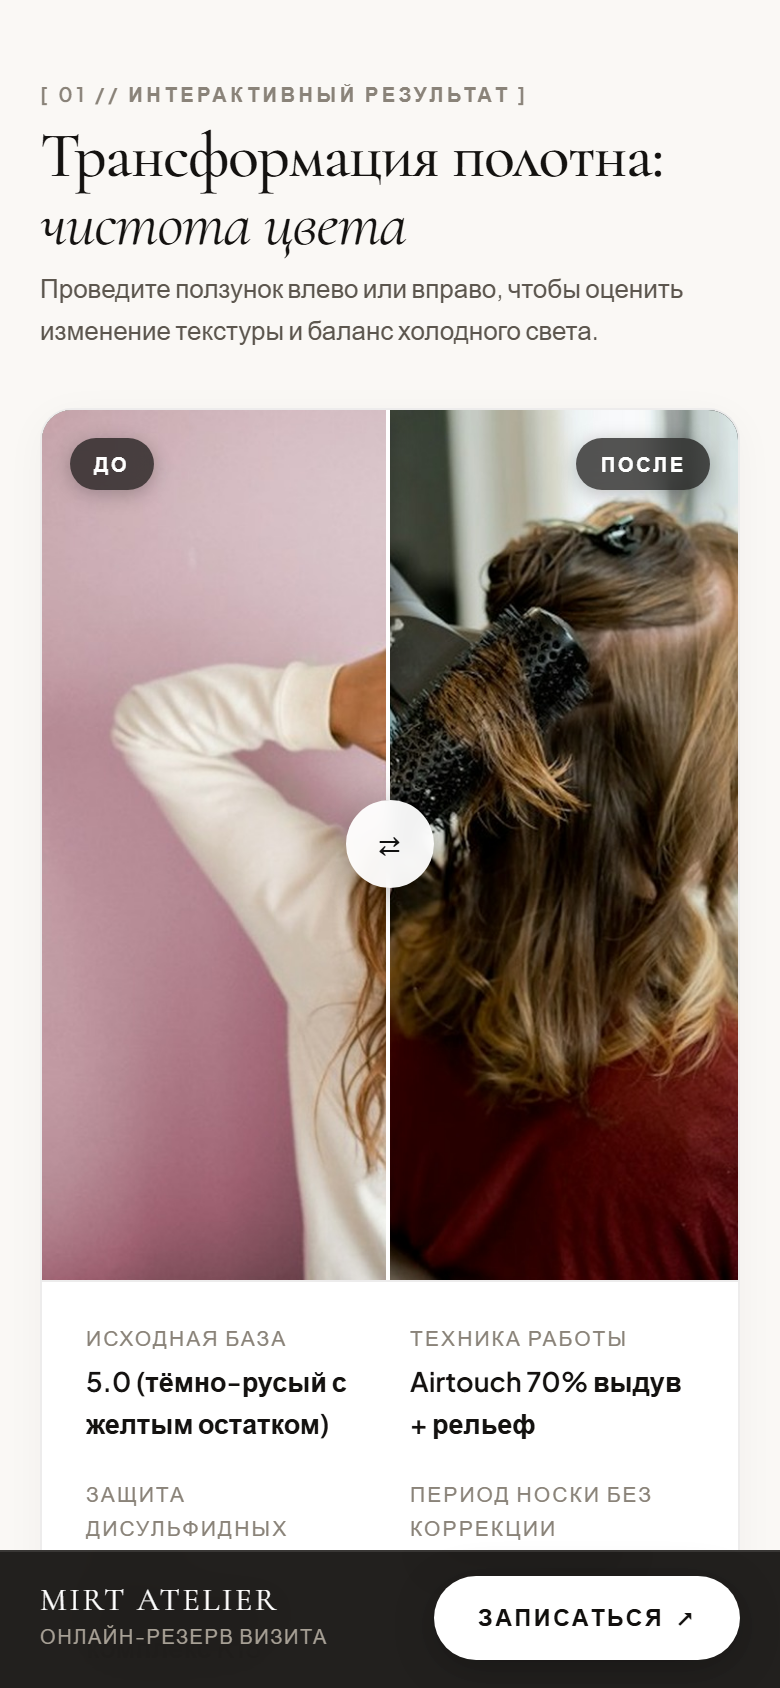
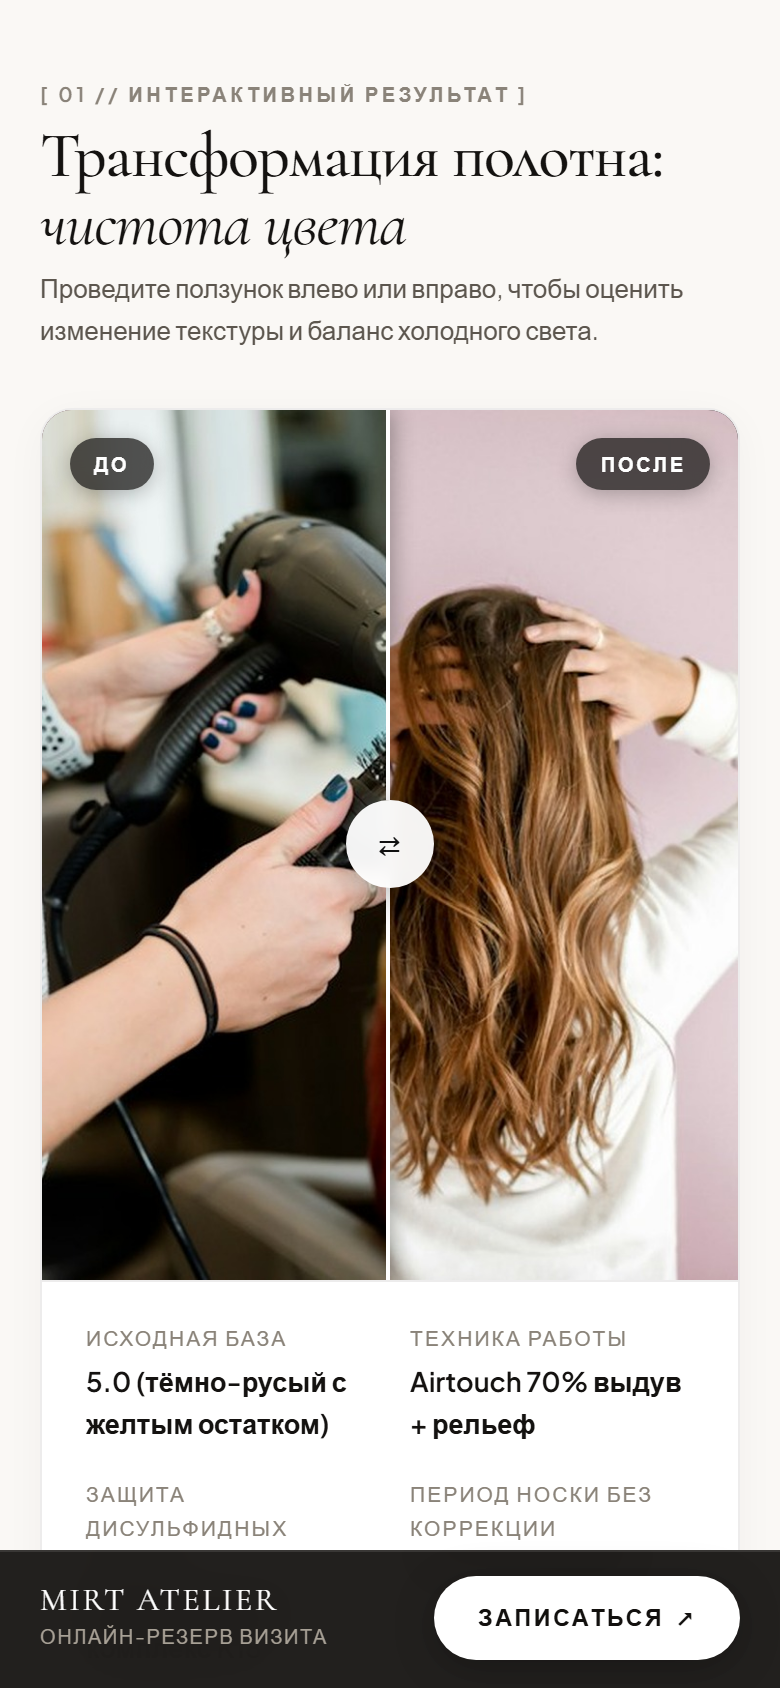
fix: correctly place BEFORE on the left and AFTER on the right, and fade matching badge at edges

diff --git a/mirt/index.html b/mirt/index.html
@@ -845,15 +845,15 @@
 
       <div class="slider-container-box">
         <div class="comparison-slider-wrap" id="sliderWrap">
-          <!-- Before (Full Background) -->
-          <img src="images/slider_before.jpg" alt="До окрашивания" class="slider-img">
+          <!-- Background (Full Width): AFTER (Blonde Result) -->
+          <img src="images/slider_after.jpg" alt="После окрашивания Airtouch" class="slider-img">
 
-          <!-- After (Curtain Wrapper) -->
+          <!-- Curtain (From Left): BEFORE (Natural / Dark Base) -->
           <div class="slider-after-wrap" id="sliderAfter">
-            <img src="images/slider_after.jpg" alt="После Airtouch Mirt" id="sliderAfterImg">
+            <img src="images/slider_before.jpg" alt="До окрашивания" id="sliderAfterImg">
           </div>
 
-          <!-- Static Pinned Badges with IDs for smart edge fade -->
+          <!-- Static Pinned Badges -->
           <div class="slider-badge-label badge-left" id="badgeBefore">ДО</div>
           <div class="slider-badge-label badge-right" id="badgeAfter">ПОСЛЕ</div>
 
@@ -1160,11 +1160,13 @@
       sliderAfterImg.style.width = rect.width + 'px';
       sliderAfterImg.style.height = rect.height + 'px';
 
-      // Dynamic label fade at boundaries
+      // Dynamic label fade at boundaries:
       const bBefore = document.getElementById('badgeBefore');
       const bAfter = document.getElementById('badgeAfter');
-      if (bBefore) bBefore.style.opacity = (percentage > 80) ? '0' : '1';
-      if (bAfter) bAfter.style.opacity = (percentage < 20) ? '0' : '1';
+      // When dragged to far left (< 15%), curtain is closed, showing 100% ПОСЛЕ -> hide ДО
+      if (bBefore) bBefore.style.opacity = (percentage < 15) ? '0' : '1';
+      // When dragged to far right (> 85%), curtain covers whole screen, showing 100% ДО -> hide ПОСЛЕ
+      if (bAfter) bAfter.style.opacity = (percentage > 85) ? '0' : '1';
     }
 
     function syncImgWidth() {
